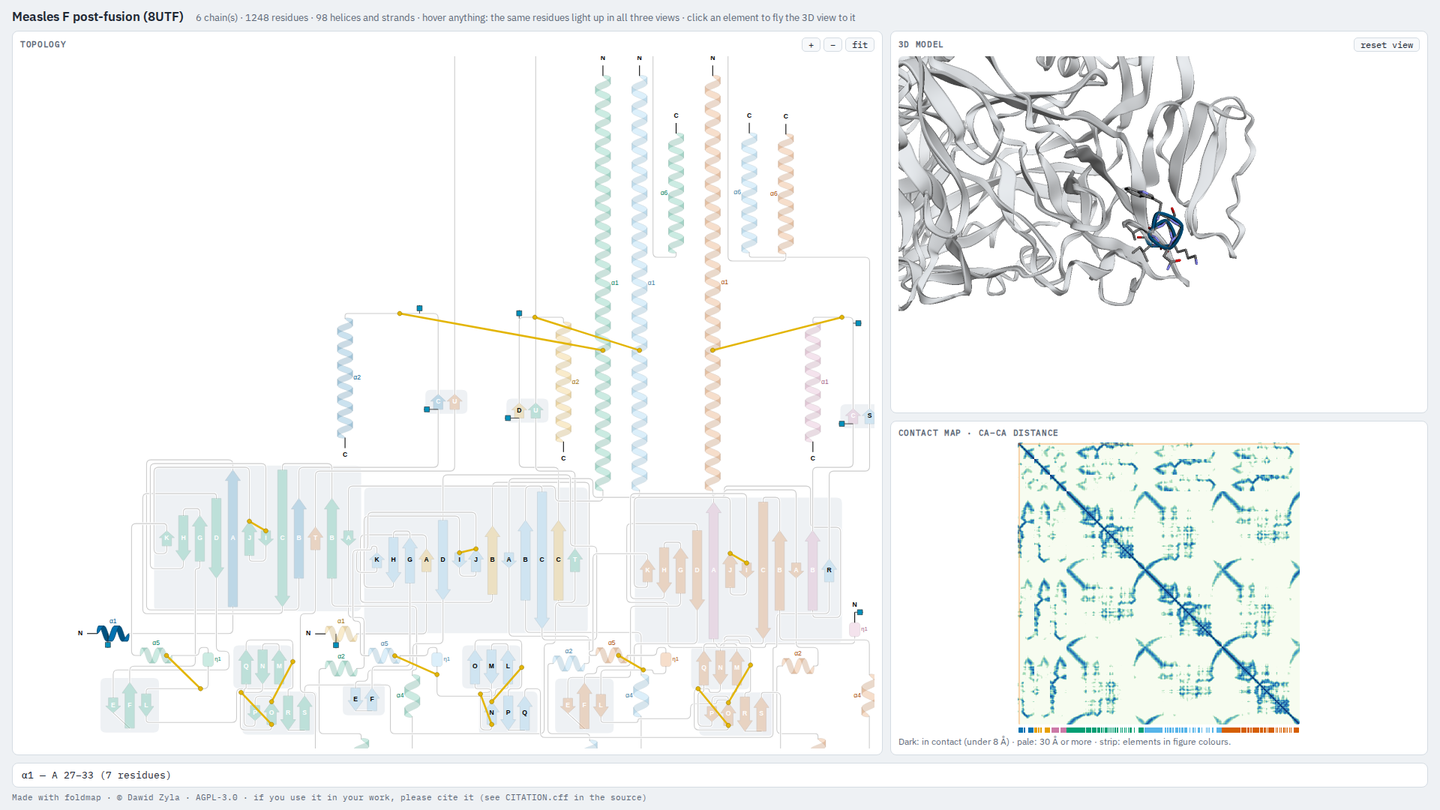
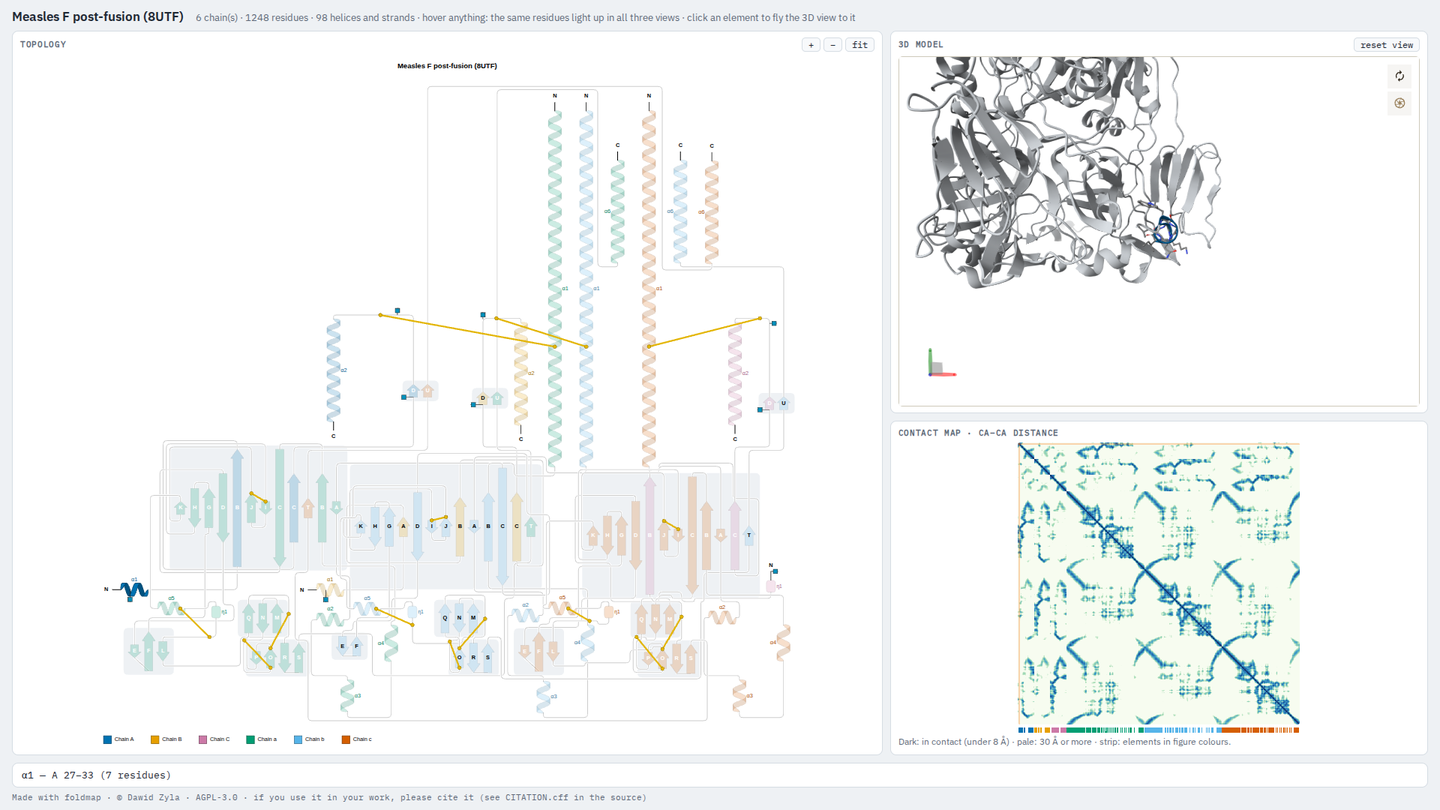
Interactive page: Mol* as the 3D viewer (3Dmol on request)
The 3D panel now uses Mol* (PDBe build, pdbe-molstar 3.12.0) with the
same behaviour as before: elements in their figure colours, hover in
the topology/contact map greys out everything but the selection (side
chains shown), hover in 3D lights the element in the topology, click
flies to an element with its surroundings in view, reset view, resizing.
--viewer 3dmol keeps 3Dmol.js; both share one adapter interface.

The exported model now types its residues (_chem_comp.type from the
source file or gemmi's table); gemmi wrote '.', which made Mol* treat
the protein as a ligand.

diff --git a/src/foldmap/interactive.py b/src/foldmap/interactive.py
@@ -18,6 +18,9 @@ from .route import route_loops
 from .style import Style
 
 THREEDMOL = "https://cdnjs.cloudflare.com/ajax/libs/3Dmol/2.1.0/3Dmol-min.js"
+MOLSTAR_JS = "https://cdn.jsdelivr.net/npm/pdbe-molstar@3.12.0/build/pdbe-molstar-plugin.js"  # Mol* (PDBe build)
+MOLSTAR_CSS = "https://cdn.jsdelivr.net/npm/pdbe-molstar@3.12.0/build/pdbe-molstar-light.css"
+VIEWERS = ("molstar", "3dmol")
 _LOOP_GREY = "#9aa3ad"
 
 # DOM-free helpers: unit-tested under node (tests/test_interactive.py)
@@ -176,42 +179,117 @@ _APP = r"""
     }
   }
 
-  // ---- 3D
+  // ---- 3D: one interface over Mol* (default) or 3Dmol: base colours, highlight, fly-to, reset, hover callbacks
   const molDiv = document.getElementById('mol');
-  const viewer = $3Dmol.createViewer(molDiv, { backgroundColor: 'white', antialias: true });
-  viewer.addModel(data.model, 'cif');
-  function residueOf(atom) { return idx.byKey[atom.chain + ':' + atom.resi + (atom.icode || '').trim()]; }
-  function colourOf(atom) {
-    const k = residueOf(atom);
-    if (k === undefined) return '#c7ccd2';
+  const LOOP = '#9aa3ad', PALE = '#dde2e7', LOOP_ON = '#4a4f57';
+  function colourOfResidue(k) {
     const e = data.residues[k].e;
-    return e ? idx.byElement[e].colour : '#9aa3ad';
+    return e ? idx.byElement[e].colour : LOOP;
   }
-  function baseStyle() {
-    viewer.setStyle({}, { cartoon: { colorfunc: colourOf } });
-    viewer.setStyle({ hetflag: true }, { stick: { radius: 0.15, colorscheme: 'grayCarbon' } });
+  function runs(residues) {  // contiguous stretches of one chain and one colour, for range-based selections
+    const ks = residues.slice().sort((a, b) => a - b), out = [];
+    ks.forEach(k => {
+      const r = data.residues[k], colour = colourOfResidue(k), last = out[out.length - 1];
+      if (last && last.chain === r.c && last.colour === colour && last.endIndex === k - 1) {
+        last.end = r.n; last.endIndex = k;
+      } else {
+        out.push({ chain: r.c, begin: r.n, end: r.n, endIndex: k, colour });
+      }
+    });
+    return out;
   }
-  baseStyle();
-  viewer.zoomTo();
-  viewer.render();
-  function fitMol() { viewer.resize(); viewer.zoomTo(); viewer.render(); }
-  new ResizeObserver(() => { viewer.resize(); viewer.render(); }).observe(molDiv);
-  setTimeout(fitMol, 50);
-  document.getElementById('molreset').onclick = () => { viewer.zoomTo({}, 400); viewer.render(); };
-  function fly(residues) {  // centre the element, keeping its neighbourhood in view
-    if (!residues.length) return;
-    const sel = { or: residues.map(k => ({ chain: data.residues[k].c, resi: data.residues[k].n })) };
-    viewer.zoomTo(sel);
-    viewer.zoom(0.35);
-    viewer.render();
+  const hooks = {};
+
+  function molstarViewer() {
+    const plugin = new PDBeMolstarPlugin();
+    const url = URL.createObjectURL(new Blob([data.model], { type: 'text/plain' }));
+    const query = run => ({ auth_asym_id: run.chain, beg_auth_seq_id: run.begin, end_auth_seq_id: run.end });
+    const baseData = data.elements.map(e => ({ auth_asym_id: e.chain, beg_auth_seq_id: e.first,
+                                               end_auth_seq_id: e.last, color: e.colour }));
+    let ready = false, busy = false, pending = null;
+    async function apply(params) {  // Mol* calls are asynchronous: keep only the latest request while one runs
+      if (!ready || busy) { pending = params; return; }
+      busy = true;
+      try { await plugin.visual.select(params); } catch (err) { console.warn(err); }
+      busy = false;
+      if (pending) { const next = pending; pending = null; apply(next); }
+    }
+    const base = () => apply({ data: baseData, nonSelectedColor: LOOP });
+    plugin.render(molDiv, {
+      customData: { url, format: 'mmcif', binary: false }, bgColor: '#ffffff', hideControls: true,
+      sequencePanel: false, leftPanel: false, pdbeLink: false, expanded: false, landscape: false,
+      loadingOverlay: false, visualStyle: 'cartoon', hideStructure: ['water'],
+      hideCanvasControls: ['expand', 'selection', 'animation', 'controlToggle', 'controlInfo'],
+    });
+    plugin.events.loadComplete.subscribe(ok => { if (ok) { ready = true; base(); } });
+    function key(d) { return idx.byKey[d.auth_asym_id + ':' + d.auth_seq_id + ((d.ins_code || '').trim())]; }
+    molDiv.addEventListener('PDB.molstar.mouseover', ev => {
+      const k = key(ev.eventData || {});
+      if (k !== undefined && hooks.hover) hooks.hover(k);
+    });
+    molDiv.addEventListener('PDB.molstar.mouseout', () => hooks.leave && hooks.leave());
+    new ResizeObserver(() => { const c = plugin.plugin && plugin.plugin.canvas3d; if (c) c.handleResize(); })
+      .observe(molDiv);
+    return {
+      name: 'molstar',
+      on(residues) {
+        if (!residues.length) return base();
+        apply({ data: runs(residues).map(r => Object.assign(query(r), { color: r.colour === LOOP ? LOOP_ON : r.colour,
+                                                                         sideChain: true })),
+                nonSelectedColor: PALE });
+      },
+      async fly(residues) {  // focus, then step back so the element sits in its surroundings
+        if (!ready || !residues.length) return;
+        await plugin.visual.focus(runs(residues).map(query));
+        setTimeout(() => {
+          const c = plugin.plugin && plugin.plugin.canvas3d;
+          if (!c) return;
+          const snap = c.camera.getSnapshot(), k = 2.4;
+          const position = [0, 1, 2].map(i => snap.target[i] + (snap.position[i] - snap.target[i]) * k);
+          c.camera.setState({ position, radius: snap.radius * k }, 300);
+        }, 450);
+      },
+      reset() { if (ready) plugin.visual.reset({ camera: true }); },
+      plugin,
+    };
   }
-  function molOn(residues) {  // like the topology: the selection in its figure colours, everything else pale
-    if (!residues.length) { baseStyle(); viewer.render(); return; }
-    viewer.setStyle({}, { cartoon: { color: '#dde2e7', opacity: 0.85 } });
-    const sel = { or: residues.map(k => ({ chain: data.residues[k].c, resi: data.residues[k].n })) };
-    viewer.setStyle(sel, { cartoon: { colorfunc: colourOf }, stick: { radius: 0.18, colorscheme: 'grayCarbon' } });
-    viewer.render();
+
+  function threeDmolViewer() {
+    const viewer = $3Dmol.createViewer(molDiv, { backgroundColor: 'white', antialias: true });
+    viewer.addModel(data.model, 'cif');
+    const residueOf = atom => idx.byKey[atom.chain + ':' + atom.resi + (atom.icode || '').trim()];
+    const colourOf = atom => { const k = residueOf(atom); return k === undefined ? '#c7ccd2' : colourOfResidue(k); };
+    function base() {
+      viewer.setStyle({}, { cartoon: { colorfunc: colourOf } });
+      viewer.setStyle({ hetflag: true }, { stick: { radius: 0.15, colorscheme: 'grayCarbon' } });
+    }
+    base(); viewer.zoomTo(); viewer.render();
+    new ResizeObserver(() => { viewer.resize(); viewer.render(); }).observe(molDiv);
+    setTimeout(() => { viewer.resize(); viewer.zoomTo(); viewer.render(); }, 50);
+    viewer.setHoverable({}, true, atom => {
+      const k = residueOf(atom);
+      if (k !== undefined && hooks.hover) hooks.hover(k);
+    }, () => hooks.leave && hooks.leave());
+    const sel = residues => ({ or: residues.map(k => ({ chain: data.residues[k].c, resi: data.residues[k].n })) });
+    return {
+      name: '3dmol',
+      on(residues) {  // like the topology: the selection in its figure colours, everything else pale
+        if (!residues.length) { base(); viewer.render(); return; }
+        viewer.setStyle({}, { cartoon: { color: PALE, opacity: 0.85 } });
+        viewer.setStyle(sel(residues), { cartoon: { colorfunc: colourOf }, stick: { radius: 0.18, colorscheme: 'grayCarbon' } });
+        viewer.render();
+      },
+      fly(residues) { if (residues.length) { viewer.zoomTo(sel(residues)); viewer.zoom(0.35); viewer.render(); } },
+      reset() { viewer.zoomTo({}, 400); viewer.render(); },
+      viewer,
+    };
   }
+
+  const mol = data.viewer === '3dmol' ? threeDmolViewer() : molstarViewer();
+  window.foldmapViewer = mol;
+  document.getElementById('molreset').onclick = () => mol.reset();
+  const molOn = residues => mol.on(residues);
+  const fly = residues => mol.fly(residues);
 
   // ---- linking
   function range(a, b) { const out = []; for (let k = a; k <= b; k++) out.push(k); return out; }
@@ -266,12 +344,11 @@ _APP = r"""
                  (lib.distance(data.ca, i, j) <= CUT ? ' (contact)' : '') });
   });
   over.addEventListener('mouseleave', clear);
-  viewer.setHoverable({}, true, atom => {
-    const k = residueOf(atom);
-    if (k === undefined) return;
+  hooks.hover = k => {  // hovering the 3D model
     const e = data.residues[k].e;
     if (e) element(e); else show({ residues: [k], ranges: [[k, k]], text: name(k) + ' (loop)' });
-  }, clear);
+  };
+  hooks.leave = clear;
 })();
 """
 
@@ -351,14 +428,58 @@ def _model_cif(path, assembly: str, axes=None, centre=None) -> str:
     st.add_model(model)
     st.remove_waters()
     st.setup_entities()
-    return st.make_mmcif_document().as_string()
+    doc = st.make_mmcif_document()
+    _type_components(doc.sole_block(), path)
+    return doc.as_string()
+
+
+def _type_components(block, path) -> None:
+    """Fill _chem_comp.type (gemmi leaves it '.'): from the source file when it has them, else from gemmi's
+    residue table. Viewers such as Mol* tell polymer from ligand by it."""
+    known = {}
+    try:
+        src = gemmi.cif.read(str(path)).sole_block().find("_chem_comp.", ["id", "type"])
+        known = {r[0]: gemmi.cif.as_string(r[1]) for r in src}
+    except (RuntimeError, ValueError, IndexError):
+        pass
+    table = block.find("_chem_comp.", ["id", "type"])
+    for row in table:
+        name = row[0]
+        kind = known.get(name) or _component_type(name)
+        row[1] = gemmi.cif.quote(kind)
+
+
+def _component_type(name: str) -> str:
+    info = gemmi.find_tabulated_residue(name)
+    if info is None:
+        return "non-polymer"
+    if info.is_amino_acid():
+        return "peptide linking" if name == "GLY" else "L-peptide linking"
+    if info.is_nucleic_acid():
+        return "DNA linking" if name.startswith("D") else "RNA linking"
+    return "non-polymer"
+
+
+def _viewer_head(viewer: str) -> str:
+    if viewer == "3dmol":
+        return f'<script src="{THREEDMOL}"></script>'
+    return f'<link rel="stylesheet" href="{MOLSTAR_CSS}">\n<script src="{MOLSTAR_JS}"></script>'
 
 
 def build_page(
-    path, mode: str = "projected", look: Style | None = None, title: str | None = None, **layout_options
+    path,
+    mode: str = "projected",
+    look: Style | None = None,
+    title: str | None = None,
+    viewer: str = "molstar",
+    **layout_options,
 ) -> str:
-    """The HTML page as a string. layout_options go to cli.make_layout (symmetry, assembly, swap, ...)."""
+    """The HTML page as a string. viewer: 'molstar' (Mol*, PDBe build) or '3dmol' for the 3D panel.
+    layout_options go to cli.make_layout (symmetry, assembly, swap, ...)."""
     from .cli import make_layout
+
+    if viewer not in VIEWERS:
+        raise ValueError(f"unknown 3D viewer {viewer!r}; choose from {', '.join(VIEWERS)}")
 
     look = look or Style()
     layout, sses, bb = make_layout(path, mode, look=look, **layout_options)
@@ -385,6 +506,7 @@ def build_page(
             if s.id in layout.placed
         ],
         "model": _model_cif(path, layout_options.get("assembly", "auto"), layout.page_axes, layout.page_centre),
+        "viewer": viewer,
     }
     blob = json.dumps(data, separators=(",", ":")).replace("</", "<\\/")
     name = html.escape(data["title"])
@@ -395,7 +517,7 @@ def build_page(
 <title>{name} · topology explorer</title>
 <link rel="stylesheet" href="https://fonts.googleapis.com/css2?family=IBM+Plex+Sans:wght@400;600&family=IBM+Plex+Mono&display=swap">
 <style>{_CSS}</style>
-<script src="{THREEDMOL}"></script>
+{_viewer_head(viewer)}
 </head><body>
 <header><h1>{name}</h1><p>{chains} chain(s) · {n_res} residues · {n_el} helices and strands · hover anything: the
 same residues light up in all three views · click an element to fly the 3D view to it</p></header>

diff --git a/tests/test_interactive.py b/tests/test_interactive.py
@@ -9,7 +9,7 @@ from pathlib import Path
 import numpy as np
 import pytest
 
-from foldmap.interactive import THREEDMOL, build_page
+from foldmap.interactive import MOLSTAR_JS, build_page
 
 DATA = Path(__file__).parent / "data"
 
@@ -27,7 +27,7 @@ def _script(page: str, sid: str) -> str:
 def test_page_carries_svg_data_and_model(name):
     page = build_page(DATA / f"{name}.cif")
     data = _data(page)
-    assert "<svg" in page and THREEDMOL in page
+    assert "<svg" in page and MOLSTAR_JS in page
     assert len(data["residues"]) == len(data["ca"]) > 0
     ids = set(re.findall(r'id="([^"]+)"', page))
     for e in data["elements"]:
@@ -121,3 +121,55 @@ def test_3d_model_is_turned_to_match_the_figure():
     st = gemmi.make_structure_from_block(doc.sole_block())
     ca = next(a.pos for r in st[0]["A"] for a in r if a.name == "CA")
     assert np.allclose([ca.x, ca.y, ca.z], rot @ (bb.ca[0] - centre), atol=1e-2)
+
+
+def _data(page):
+    import json
+    import re
+
+    return json.loads(re.search(r'id="topo-data">(.*?)</script>', page, re.S).group(1))
+
+
+def test_molstar_is_the_default_3d_viewer():
+    from foldmap.interactive import MOLSTAR_CSS, MOLSTAR_JS, build_page
+
+    page = build_page(DATA / "1UBQ.cif")
+    assert MOLSTAR_JS in page and MOLSTAR_CSS in page and "3Dmol-min.js" not in page
+    assert "pdbe-molstar@3.12.0" in MOLSTAR_JS  # pinned
+    assert _data(page)["viewer"] == "molstar"
+
+
+def test_3dmol_on_request():
+    from foldmap.interactive import THREEDMOL, build_page
+
+    page = build_page(DATA / "1UBQ.cif", viewer="3dmol")
+    assert THREEDMOL in page and "pdbe-molstar-plugin.js" not in page and _data(page)["viewer"] == "3dmol"
+
+
+def test_unknown_viewer_is_explained():
+    from foldmap.interactive import build_page
+
+    with pytest.raises(ValueError, match="molstar"):
+        build_page(DATA / "1UBQ.cif", viewer="pymol")
+
+
+def test_cli_viewer_option(tmp_path):
+    from foldmap.cli import main
+
+    out = tmp_path / "v.html"
+    assert main(["interactive", str(DATA / "1UBQ.cif"), "-o", str(out), "--viewer", "3dmol"]) == 0
+    assert "3Dmol" in out.read_text()
+
+
+@pytest.mark.parametrize("name", ["1UBQ", "1LMB", "8UTF"])
+def test_exported_model_types_its_residues(name):
+    """Mol* (and other readers) decide what is polymer from _chem_comp.type; '.' made everything a ligand."""
+    import gemmi
+
+    from foldmap.interactive import _model_cif
+
+    block = gemmi.cif.read_string(_model_cif(DATA / f"{name}.cif", "auto")).sole_block()
+    types = {r[0]: gemmi.cif.as_string(r[1]) for r in block.find("_chem_comp.", ["id", "type"])}
+    assert types["ALA"].lower() == "l-peptide linking" and "." not in types.values()
+    if name == "1LMB":
+        assert any("dna linking" in t.lower() for t in types.values())

diff --git a/src/foldmap/cli.py b/src/foldmap/cli.py
@@ -642,6 +642,7 @@ def main(argv: list[str] | None = None) -> int:
     sq.add_argument("--title")
     q = sub.add_parser("plot", help="draw the topology figure")
     iq = sub.add_parser("interactive", help="an HTML page linking the topology, the contact map and the 3D model")
+    iq.add_argument("--viewer", choices=["molstar", "3dmol"], default="molstar", help="3D viewer (default Mol*)")
     for cmd in (q, iq):
         q = cmd
         q.add_argument("structure")
@@ -801,7 +802,13 @@ def main(argv: list[str] | None = None) -> int:
             if args.command == "interactive":
                 from .interactive import write_page
 
-                page = dict(mode=opts["mode"], title=opts["title"], rotate=opts["rotate"], flip_v=opts["flip_v"])
+                page = dict(
+                    mode=opts["mode"],
+                    title=opts["title"],
+                    rotate=opts["rotate"],
+                    flip_v=opts["flip_v"],
+                    viewer=args.viewer,
+                )
                 for out in args.output:
                     print(f"wrote {write_page(args.structure, out, **page, **kw)}")
             else:

diff --git a/src/foldmap/mcp_server.py b/src/foldmap/mcp_server.py
@@ -251,16 +251,20 @@ def draw_sequence(
 
 @tool
 def interactive_page(
-    source: str, output_path: str | None = None, theme: str = "publication", assembly: str = "auto"
+    source: str,
+    output_path: str | None = None,
+    theme: str = "publication",
+    assembly: str = "auto",
+    viewer: str = "molstar",
 ) -> str:
     """Write a self-contained HTML page linking the topology, a residue contact map and the 3D model (hover
-    anything: the same residues light up in all three). Returns the path."""
+    anything: the same residues light up in all three). viewer: molstar (Mol*, default) or 3dmol. Returns the path."""
     from .interactive import write_page
     from .style import THEMES
 
     path = _structure(source)
     out = Path(output_path).expanduser() if output_path else _output(None, ".html", f"{path.stem}-explorer")
-    return f"wrote {write_page(path, out, look=THEMES[theme], assembly=assembly)}"
+    return f"wrote {write_page(path, out, look=THEMES[theme], assembly=assembly, viewer=viewer)}"
 
 
 def main() -> None:

diff --git a/README.md b/README.md
@@ -92,7 +92,9 @@ alt="Interactive page: topology, 3D model and contact map side by side">
 
 `foldmap interactive` writes one HTML page with the topology, the 3D model and a residue contact map side by
 side. Hover an element, a loop, a map cell or an atom and the same residues light up in all three; click an
-element to fly the 3D view to it. The 3D model starts in the same orientation as the figure.
+element to fly the 3D view to it. The 3D model starts in the same orientation as the figure. The 3D panel uses
+[Mol*](https://molstar.org) (the PDBe build); `--viewer 3dmol` switches to the lighter
+[3Dmol.js](https://3dmol.csb.pitt.edu/). Either loads from a CDN, so the page needs an internet connection.
 
 ## Install
 
